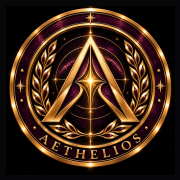
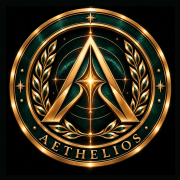
Return Aethelios to deep on-brand green and gold

diff --git a/src/app/sovereign.css b/src/app/sovereign.css
@@ -1,47 +1,47 @@
-/* Founder-approved Aethelios Sovereign. Legacy destinations retain their own identity. */
-.aethelios-sovereign {
-  --sovereign: #421533;
-  --sovereign-shadow: #1a0b17;
-  --sovereign-light: #70264f;
-  --obsidian-950: #080709;
-  --obsidian-900: #100b10;
-  --obsidian-800: #191018;
-  --obsidian-700: #221420;
+/* Founder-approved deep Aethelios green. Legacy destinations retain their own identity. */
+.aethelios-green {
+  --aethelios-green: #062a23;
+  --aethelios-green-shadow: #031812;
+  --aethelios-green-light: #0b3b32;
+  --obsidian-950: #030806;
+  --obsidian-900: #07110d;
+  --obsidian-800: #0a1a14;
+  --obsidian-700: #10251d;
   /* Compatibility aliases for existing reusable materials; technical keys stay stable. */
-  --ascend-green-950: #1a0b17;
-  --ascend-green-900: #2c1024;
-  --ascend-green-800: #421533;
-  --ascend-green-700: #562040;
-  --ascend-green-600: #70264f;
-  --surface-green: #1a0b17;
-  --green: #2c1024;
-  --green-light: #70264f;
-  --enamel: #421533;
-  --background: #080709;
-  --surface: #191018;
-  --text-primary: #eeeaf1;
-  --text-secondary: #c1b5c0;
-  --text: #eeeaf1;
-  --muted: #c1b5c0;
-  background: #080709;
+  --ascend-green-950: #031812;
+  --ascend-green-900: #042018;
+  --ascend-green-800: #062a23;
+  --ascend-green-700: #09352a;
+  --ascend-green-600: #0b3b32;
+  --surface-green: #031812;
+  --green: #042018;
+  --green-light: #0b3b32;
+  --enamel: #062a23;
+  --background: #030806;
+  --surface: #0a1a14;
+  --text-primary: #f5f1e9;
+  --text-secondary: #b9c2ba;
+  --text: #f5f1e9;
+  --muted: #b9c2ba;
+  background: #030806;
   color: var(--text);
 }
-.aethelios-sovereign .sidebar,
-.aethelios-sovereign .mobile-nav {
-  background: linear-gradient(155deg, #1a0b17, #080709 75%);
+.aethelios-green .sidebar,
+.aethelios-green .mobile-nav {
+  background: linear-gradient(155deg, #031812, #030806 75%);
 }
-.aethelios-sovereign :is(.aethelios-page, .company-room-focused) {
-  background: radial-gradient(ellipse at 85% 0, #42153333, transparent 55%), #080709;
+.aethelios-green :is(.aethelios-page, .company-room-focused) {
+  background: radial-gradient(ellipse at 85% 0, #062a2333, transparent 55%), #030806;
 }
-.aethelios-sovereign :is(.aurelius-workspace, .company-room) {
+.aethelios-green :is(.aurelius-workspace, .company-room) {
   background-color: transparent;
 }
-.aethelios-sovereign :is(.talk-drawer, .talk-expanded-editor, .council-dialog) {
-  background: #1a0b17;
-  color: #eeeaf1;
+.aethelios-green :is(.talk-drawer, .talk-expanded-editor, .council-dialog) {
+  background: #031812;
+  color: #f5f1e9;
 }
-.aethelios-sovereign :is(.user-message, .conversation-item.is-active) {
-  background: #42153355;
+.aethelios-green :is(.user-message, .conversation-item.is-active) {
+  background: #062a2355;
 }
 .talk-presence {
   display: inline-flex;
@@ -55,36 +55,36 @@
   padding: 0;
   border: 1px solid #c4912f66;
   border-radius: 50%;
-  background: #1a0b17;
+  background: #031812;
 }
-.sovereign-orb {
+.talk-orb {
   position: relative;
   display: block;
   width: 100%;
   height: 100%;
 }
-.sovereign-orb .intelligence-orb,
-.sovereign-orb canvas {
+.talk-orb .intelligence-orb,
+.talk-orb canvas {
   position: absolute;
   inset: 0;
   width: 100%;
   height: 100%;
 }
-.sovereign-orb .intelligence-orb-static {
+.talk-orb .intelligence-orb-static {
   position: absolute;
   inset: 12%;
   border-radius: 50%;
   overflow: hidden;
-  background: radial-gradient(circle at 32% 28%, #70264f, #421533 42%, #1a0b17 75%);
+  background: radial-gradient(circle at 32% 28%, #0b3b32, #062a23 42%, #031812 75%);
   border: 1px solid #c4912f66;
   box-shadow:
-    inset -8px -8px 12px #080709aa,
-    0 0 16px #70264f44;
+    inset -8px -8px 12px #030806aa,
+    0 0 16px #0b3b3244;
 }
-.sovereign-orb .intelligence-orb[data-rendered='true'] .intelligence-orb-static {
+.talk-orb .intelligence-orb[data-rendered='true'] .intelligence-orb-static {
   opacity: 0;
 }
-.sovereign-orb .intelligence-orb-contours {
+.talk-orb .intelligence-orb-contours {
   position: absolute;
   inset: 0;
   background: repeating-radial-gradient(
@@ -95,51 +95,51 @@
   );
   transform: rotate(-25deg) scale(1.4);
 }
-.sovereign-orb .intelligence-orb-light {
+.talk-orb .intelligence-orb-light {
   position: absolute;
   inset: 0;
-  background: radial-gradient(circle at 30% 28%, #b6659144, transparent 35%);
+  background: radial-gradient(circle at 30% 28%, #427b6144, transparent 35%);
 }
 .talk-presence[data-state='working'] > button {
   border-color: #e8c780;
   box-shadow: 0 0 14px #c4912f44;
 }
-.sovereign-presence-room {
+.talk-presence-room {
   text-align: center;
   padding-block: 24px;
 }
-.sovereign-presence-room > .sovereign-orb {
+.talk-presence-room > .talk-orb {
   width: min(320px, 75vw);
   height: min(320px, 75vw);
   margin: 0 auto 24px;
 }
-.sovereign-presence-room p {
+.talk-presence-room p {
   margin-top: 12px;
 }
 @media (forced-colors: active) {
-  .sovereign-orb canvas {
+  .talk-orb canvas {
     display: none;
   }
-  .sovereign-orb .intelligence-orb-static {
+  .talk-orb .intelligence-orb-static {
     opacity: 1 !important;
     border: 2px solid CanvasText;
   }
 }
 
-.aethelios-sovereign .council-dialog header {
-  background: #1a0b17;
+.aethelios-green .council-dialog header {
+  background: #031812;
 }
-.aethelios-sovereign .aethelios-today {
-  background: #42153344;
+.aethelios-green .aethelios-today {
+  background: #062a2344;
 }
-.aethelios-sovereign .talk-title {
-  color: #c1b5c0;
+.aethelios-green .talk-title {
+  color: #b9c2ba;
 }
-.aethelios-sovereign .conversation-starters button {
-  background: linear-gradient(140deg, #42153380, #1a0b17);
-  color: #eeeaf1;
+.aethelios-green .conversation-starters button {
+  background: linear-gradient(140deg, #062a2380, #031812);
+  color: #f5f1e9;
   border-color: #c4912f40;
 }
-.aethelios-sovereign .aurelius-composer {
-  background: linear-gradient(140deg, #321327, #1a0b17);
+.aethelios-green .aurelius-composer {
+  background: linear-gradient(140deg, #082c22, #031812);
 }

diff --git a/src/components/public/intelligence-orb.tsx b/src/components/public/intelligence-orb.tsx
@@ -7,7 +7,7 @@ void main(){gl_Position=vec4(position,0.,1.);}`;
 const fragment = `#version 300 es
 precision highp float;
 uniform vec2 resolution;
-uniform float time,energy,scroll,sovereign;
+uniform float time,energy,scroll,deepGreen;
 out vec4 pixel;
 float hash(vec3 p){p=fract(p*.1031);p+=dot(p,p.yzx+33.33);return fract((p.x+p.y)*p.z);}
 float noise(vec3 p){
@@ -21,7 +21,7 @@ void main(){
  float radius=.73*(1.+.018*sin(time*1.4)+energy*.095);
  float r2=dot(p,p);
  float halo=exp(-pow(length(p)/1.04,2.)*3.1);
- vec3 color=(sovereign > .5 ? vec3(.255,.081,.201) : vec3(.04,.30,.19))*halo*(.25+energy*.25);
+ vec3 color=(deepGreen > .5 ? vec3(.025,.20,.13) : vec3(.04,.30,.19))*halo*(.25+energy*.25);
  float alpha=halo*.30;
  if(r2<radius*radius){
   float depth=sqrt(max(radius*radius-r2,0.));
@@ -39,7 +39,7 @@ void main(){
   body+=vec3(.14,.35,.25)*diffuse*.13;
   body+=vec3(.19,.52,.35)*pow(.5+.5*sin(back.y*36.-atan(back.z,back.x)*8.+time*.4),18.)*.22*(1.-fresnel);
   float edge=1.-smoothstep(radius-.027,radius,length(p));
-  if(sovereign > .5){ body=vec3(body.g*.85,body.g*.27,body.g*.67);  }
+  if(deepGreen > .5){ body*=vec3(.72,.68,.72);  }
   color=mix(color,body,edge);alpha=max(alpha,edge);
  }
  vec2 q=vec2(p.x*.85+p.y*.52,p.y*.85-p.x*.52);
@@ -63,11 +63,11 @@ function compile(gl: WebGL2RenderingContext, type: number, source: string) {
 export function IntelligenceOrb({
   active,
   engaged = false,
-  sovereign = false,
+  deepGreen = false,
 }: {
   active: boolean;
   engaged?: boolean;
-  sovereign?: boolean;
+  deepGreen?: boolean;
 }) {
   const canvas = useRef<HTMLCanvasElement>(null);
   useEffect(() => {
@@ -111,7 +111,7 @@ export function IntelligenceOrb({
       energy: gl.getUniformLocation(program, 'energy'),
       scroll: gl.getUniformLocation(program, 'scroll'),
     };
-    gl.uniform1f(gl.getUniformLocation(program, 'sovereign'), sovereign ? 1 : 0);
+    gl.uniform1f(gl.getUniformLocation(program, 'deepGreen'), deepGreen ? 1 : 0);
     const chapter = el.closest<HTMLElement>('.ascend-emergence');
     let frame = 0,
       visible = false,
@@ -193,7 +193,7 @@ export function IntelligenceOrb({
       gl.deleteShader(vs);
       gl.deleteShader(fs);
     };
-  }, [active, engaged, sovereign]);
+  }, [active, engaged, deepGreen]);
   return (
     <div className="intelligence-orb" aria-hidden="true">
       <div className="intelligence-orb-static">

diff --git a/tests/browser/installed-app.spec.ts b/tests/browser/installed-app.spec.ts
@@ -12,9 +12,9 @@ test('fresh installation has one current crest identity across manifest and Appl
   expect(manifest.start_url).toBe('/app');
   expect(manifest.icons).toHaveLength(3);
   expect(manifest.icons.map((icon: { src: string }) => icon.src)).toEqual([
-    '/brand/sovereign-20261006-192.png',
-    '/brand/sovereign-20261006-512.png',
-    '/brand/sovereign-20261006-maskable-512.png',
+    '/brand/deep-green-20261006-192.png',
+    '/brand/deep-green-20261006-512.png',
+    '/brand/deep-green-20261006-maskable-512.png',
   ]);
   for (const icon of manifest.icons) {
     const response = await request.get(icon.src);
@@ -36,7 +36,7 @@ test('fresh installation has one current crest identity across manifest and Appl
     for (let x = 0; x < info.width; x++) {
       if (Math.hypot(x + 0.5 - 256, y + 0.5 - 256) <= 204.8) continue;
       const index = (y * info.width + x) * info.channels;
-      if (data[index] !== 8 || data[index + 1] !== 7 || data[index + 2] !== 9) outside++;
+      if (data[index] !== 3 || data[index + 1] !== 8 || data[index + 2] !== 6) outside++;
     }
   expect(outside).toBe(0);
   await page.goto('/app/install');

diff --git a/tests/browser/talk-layout.spec.ts b/tests/browser/talk-layout.spec.ts
@@ -34,8 +34,14 @@ for (const width of [320, 360, 390, 412, 768, 1440]) {
     await expect(page.getByLabel('Message Aethelios', { exact: true })).toBeVisible();
     const presence = page.getByRole('button', { name: 'Aethelios presence', exact: true });
     await expect(presence).toBeVisible();
+    const orbFill = await page
+      .locator('.talk-presence .intelligence-orb-static')
+      .first()
+      .evaluate((el) => getComputedStyle(el).backgroundImage);
+    expect(orbFill).toContain('rgb(11, 59, 50)');
+    expect(orbFill).toContain('rgb(6, 42, 35)');
     if (width === 390)
-      await page.screenshot({ path: '/workspace/scratch/486627af8504/sovereign-talk-phone.png' });
+      await page.screenshot({ path: '/workspace/scratch/486627af8504/deep-green-talk-phone.png' });
     await presence.click();
     await expect(
       page.getByRole('dialog', { name: 'Aethelios presence', exact: true }),

diff --git a/src/components/aurelius/talk-presence.tsx b/src/components/aurelius/talk-presence.tsx
@@ -12,14 +12,14 @@ export function TalkPresence({ state }: { state: PresenceState }) {
       <TalkDrawer
         label="Aethelios presence"
         triggerContent={
-          <span className="sovereign-orb">
-            <IntelligenceOrb active={moving} engaged={state === 'working'} sovereign />
+          <span className="talk-orb">
+            <IntelligenceOrb active={moving} engaged={state === 'working'} deepGreen />
           </span>
         }
       >
-        <div className="sovereign-presence-room">
-          <span className="sovereign-orb">
-            <IntelligenceOrb active={moving} engaged={state === 'working'} sovereign />
+        <div className="talk-presence-room">
+          <span className="talk-orb">
+            <IntelligenceOrb active={moving} engaged={state === 'working'} deepGreen />
           </span>
           <h3>Aethelios</h3>
           <p>

diff --git a/src/app/manifest.ts b/src/app/manifest.ts
@@ -17,19 +17,19 @@ export default function manifest(): MetadataRoute.Manifest {
     theme_color: brand.themeColor,
     icons: [
       {
-        src: '/brand/sovereign-20261006-192.png',
+        src: '/brand/deep-green-20261006-192.png',
         sizes: '192x192',
         type: 'image/png',
         purpose: 'any',
       },
       {
-        src: '/brand/sovereign-20261006-512.png',
+        src: '/brand/deep-green-20261006-512.png',
         sizes: '512x512',
         type: 'image/png',
         purpose: 'any',
       },
       {
-        src: '/brand/sovereign-20261006-maskable-512.png',
+        src: '/brand/deep-green-20261006-maskable-512.png',
         sizes: '512x512',
         type: 'image/png',
         purpose: 'maskable',

diff --git a/src/platform/brand.ts b/src/platform/brand.ts
@@ -4,9 +4,9 @@ export const brand = {
   shortName: 'Aethelios',
   description:
     'Company-building intelligence for founders and operators. Research, strategy and creative work in one conversational environment.',
-  themeColor: '#080709',
-  crest: '/brand/aethelios-sovereign-20261006.webp',
-  lockup: '/brand/aethelios-sovereign-20261006.webp',
+  themeColor: '#030806',
+  crest: '/brand/aethelios-deep-green-20261006.webp',
+  lockup: '/brand/aethelios-deep-green-20261006.webp',
   crestAlt:
-    'Aethelios gold circular emblem with architectural A, guiding star and laurels on Sovereign purple',
+    'Aethelios gold circular emblem with architectural A, guiding star and laurels on deep signature green',
 } as const;

diff --git a/src/components/aurelius/talk.css b/src/components/aurelius/talk.css
@@ -9,14 +9,14 @@
   max-width: 94vw;
   padding: 18px;
   border: 1px solid #c4912f50;
-  background: #1a0b17;
+  background: #031812;
   color: #eee9de;
   border-radius: 0 18px 18px 0;
   overflow: auto;
   z-index: 200;
 }
 .talk-drawer::backdrop {
-  background: #080709bb;
+  background: #030806bb;
   backdrop-filter: blur(5px);
 }
 .talk-drawer > header {
@@ -160,7 +160,7 @@
   padding: 6px 8px;
   border: 1px solid #c4912f50;
   border-radius: 22px;
-  background: linear-gradient(140deg, #321327, #1a0b17);
+  background: linear-gradient(140deg, #082c22, #031812);
 }
 .talk-page .aurelius-composer textarea.talk-input,
 .company-room textarea.talk-input {

diff --git a/tests/browser/public-world.spec.ts b/tests/browser/public-world.spec.ts
@@ -124,7 +124,7 @@ test('offline fallback caches no personal responses', async ({ page, context }) 
     return (await cache.keys()).map((request) => new URL(request.url).pathname).sort();
   });
   expect(cached).toEqual([
-    '/brand/sovereign-20261006-192.png',
+    '/brand/deep-green-20261006-192.png',
     '/offline.html',
     '/performance-offline.css',
     '/performance-offline.html',

diff --git a/src/components/shell.tsx b/src/components/shell.tsx
@@ -17,7 +17,7 @@ export function Shell({
 }) {
   return (
     <ConversationDraftProvider>
-      <div className="app-shell aethelios-sovereign">
+      <div className="app-shell aethelios-green">
         <AppRuntime />
         <VisualEnvironment>
           <ConnectionField />
